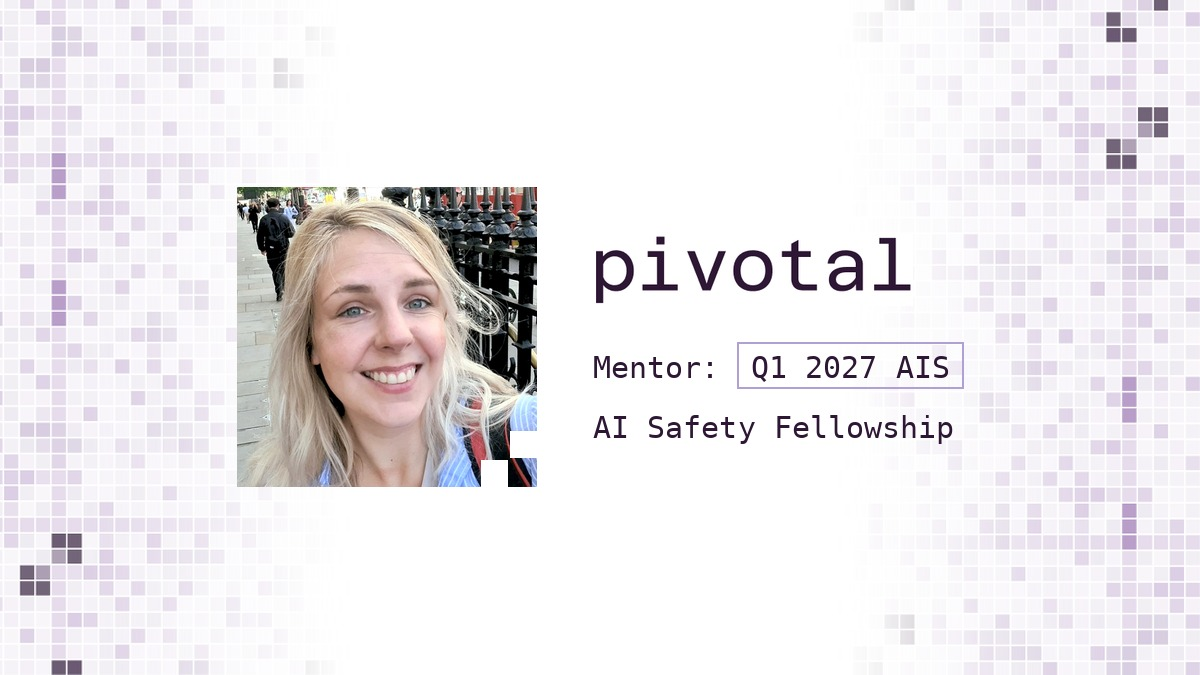
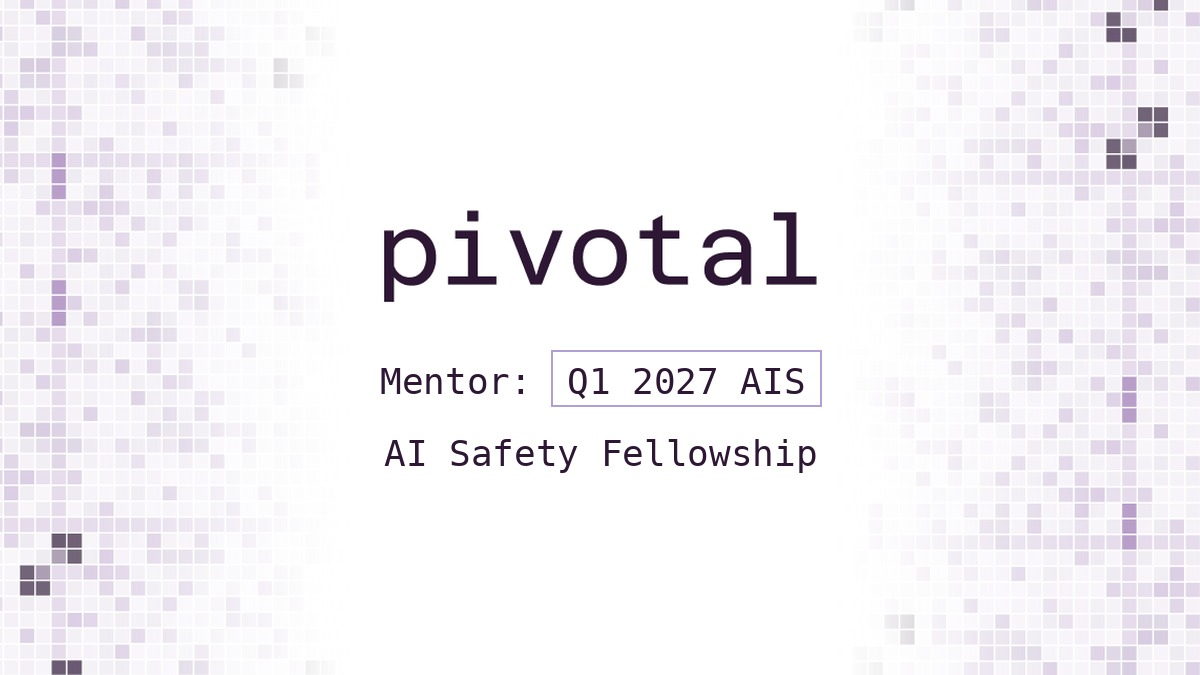
content: Pivotal tile without the photo, copy from the fellowship announcement

Changed region(s): [[0.185, 0.28, 0.8017, 0.7467]]

diff --git a/docs/assets/pivotal-tile/make_tile.py b/docs/assets/pivotal-tile/make_tile.py
@@ -6,12 +6,10 @@ usage: uv run --with pillow python -I make_tile.py
 Styled after the mentor profile page: Pivotal's Open Graph image as the
 background (white centre, lavender pixel mosaic at the sides, scaled to 675 tall
 and centre-cropped to 1200 wide), the "pivotal" wordmark lifted out of it and
-re-placed beside a square profile photo that carries the site's stepped
-white-squares corner mark, with the role set in monospace below the wordmark:
-"Mentor:" and a boxed "Q1 2027 AIS" tag as on the page, then the fellowship
-name. Text uses DejaVu Sans Mono, the closest system font to the page's
-monospace. Output is 1200x675, capped at 150 KB, written to
-public/images/pivotal-ais-fellowship-2027.jpg.
+re-placed, centred, above the role set in monospace: "Mentor:" and a boxed
+"Q1 2027 AIS" tag as on the page, then the fellowship name. Text uses DejaVu
+Sans Mono, the closest system font to the page's monospace. Output is 1200x675,
+capped at 150 KB, written to public/images/pivotal-ais-fellowship-2027.jpg.
 """
 from pathlib import Path
 
@@ -21,12 +19,9 @@ HERE = Path(__file__).resolve().parent
 OUT_W, OUT_H = 1200, 675
 SIZE_CAP = 150_000
 MONO = "/usr/share/fonts/truetype/dejavu/DejaVuSansMono.ttf"
-PHOTO = 300  # profile photo side
-MARK = 56  # corner mark side (two stepped white squares)
-GAP = 56  # photo to text block
-WORDMARK_W = 320
+WORDMARK_W = 440
 TAG_BORDER = (176, 160, 214)  # lavender, as the tag outline on the page
-SIZE = 30
+SIZE = 36
 
 
 def save_capped(img, path, cap=SIZE_CAP):
@@ -50,25 +45,8 @@ def wordmark_box(og):
     return min(xs), min(ys), max(xs) + 1, max(ys) + 1
 
 
-def corner_mark(photo):
-    """Pivotal's profile-photo mark: two white squares stepped into the bottom-right corner."""
-    d = ImageDraw.Draw(photo)
-    s = MARK * 24.66 / 51.79  # square side, from the SVG
-    o = MARK * 27.13 / 51.79  # offset of the second square
-    w, h = photo.size
-    # the mark's box sits in the corner; squares at its top-right and bottom-left
-    bx, by = w - MARK, h - MARK
-    d.rectangle((bx + o, by, bx + MARK, by + s), fill=(255, 255, 255))
-    d.rectangle((bx, by + o, bx + s, by + MARK), fill=(255, 255, 255))
-    return photo
-
-
 def main():
     og = Image.open(HERE / "pivotal-og-image.png").convert("RGB")
-    photo = Image.open(HERE / "jess-photo.png").convert("RGB")
-    side = min(photo.size)
-    photo = photo.crop((0, 0, side, side)).resize((PHOTO, PHOTO), Image.LANCZOS)
-    photo = corner_mark(photo)
 
     # Lift the wordmark, then blank it out of the background.
     x0, y0, x1, y1 = wordmark_box(og)
@@ -82,33 +60,30 @@ def main():
     left = (bg.width - OUT_W) // 2
     tile = bg.crop((left, 0, left + OUT_W, OUT_H))
 
-    # Text block: wordmark, "Mentor: [Q1 2027 AIS]", fellowship name.
+    # Centred block: wordmark, "Mentor: [Q1 2027 AIS]", fellowship name.
     wm = wordmark.resize((WORDMARK_W, round(wordmark.height * WORDMARK_W / wordmark.width)), Image.LANCZOS)
     font = ImageFont.truetype(MONO, SIZE)
     label, tag, line2 = "Mentor:", "Q1 2027 AIS", "AI Safety Fellowship"
-    pad_x, pad_y = 14, 8
+    pad_x, pad_y = 16, 10
+    label_w = int(font.getlength(label))
     tag_w = int(font.getlength(tag)) + 2 * pad_x
     tag_h = SIZE + 2 * pad_y
-    row1_w = int(font.getlength(label)) + 18 + tag_w
-    block_w = max(WORDMARK_W, row1_w, int(font.getlength(line2)))
-    block_h = wm.height + 36 + tag_h + 22 + SIZE
+    row1_w = label_w + 20 + tag_w
+    line2_w = int(font.getlength(line2))
+    block_h = wm.height + 44 + tag_h + 26 + SIZE
 
-    group_w = PHOTO + GAP + block_w
-    gx = (OUT_W - group_w) // 2
-    py = (OUT_H - PHOTO) // 2
-    tile.paste(photo, (gx, py))
-
-    tx = gx + PHOTO + GAP
+    cx = OUT_W // 2
     ty = (OUT_H - block_h) // 2
-    tile.paste(wm, (tx, ty))
+    tile.paste(wm, (cx - wm.width // 2, ty))
     draw = ImageDraw.Draw(tile)
-    y = ty + wm.height + 36
-    draw.text((tx, y + pad_y), label, font=font, fill=ink)
-    bx = tx + int(font.getlength(label)) + 18
+    y = ty + wm.height + 44
+    rx = cx - row1_w // 2
+    draw.text((rx, y + pad_y), label, font=font, fill=ink)
+    bx = rx + label_w + 20
     draw.rectangle((bx, y, bx + tag_w, y + tag_h), outline=TAG_BORDER, width=2)
     draw.text((bx + pad_x, y + pad_y), tag, font=font, fill=ink)
-    y += tag_h + 22
-    draw.text((tx, y), line2, font=font, fill=ink)
+    y += tag_h + 26
+    draw.text((cx - line2_w // 2, y), line2, font=font, fill=ink)
 
     save_capped(tile, HERE / "tile.jpg")
     save_capped(tile, HERE.parents[2] / "public/images/pivotal-ais-fellowship-2027.jpg")

diff --git a/docs/assets/pivotal-tile/README.md b/docs/assets/pivotal-tile/README.md
@@ -1,18 +1,17 @@
 # Pivotal Research mentoring tile
 
 The live tile (`public/images/pivotal-ais-fellowship-2027.jpg`) is styled after
-Jess's mentor profile page on pivotal-research.org: a square profile photo with
-the site's stepped white-squares corner mark, the "pivotal" wordmark, and the
-role in monospace ("Mentor:" with the boxed "Q1 2027 AIS" tag as on the page,
-then "AI Safety Fellowship"). The background is Pivotal's Open Graph image
-(white centre, lavender pixel mosaic at the sides) scaled to 675 tall and
-centre-cropped to 1200 wide; the wordmark is lifted out of it and re-placed.
+Jess's mentor profile page on pivotal-research.org: the "pivotal" wordmark,
+centred, above the role in monospace ("Mentor:" with the boxed "Q1 2027 AIS"
+tag as on the page, then "AI Safety Fellowship"). The background is Pivotal's
+Open Graph image (white centre, lavender pixel mosaic at the sides) scaled to
+675 tall and centre-cropped to 1200 wide; the wordmark is lifted out of it and
+re-placed.
 
 ## Files
 
 - `make_tile.py` — generator; writes `tile.jpg` here and the live file
 - `pivotal-og-image.png` — `https://www.pivotal-research.org/opengraph-image.png`
-- `jess-photo.png` — the profile photo from the mentor page
 
 ## Regenerating
 
